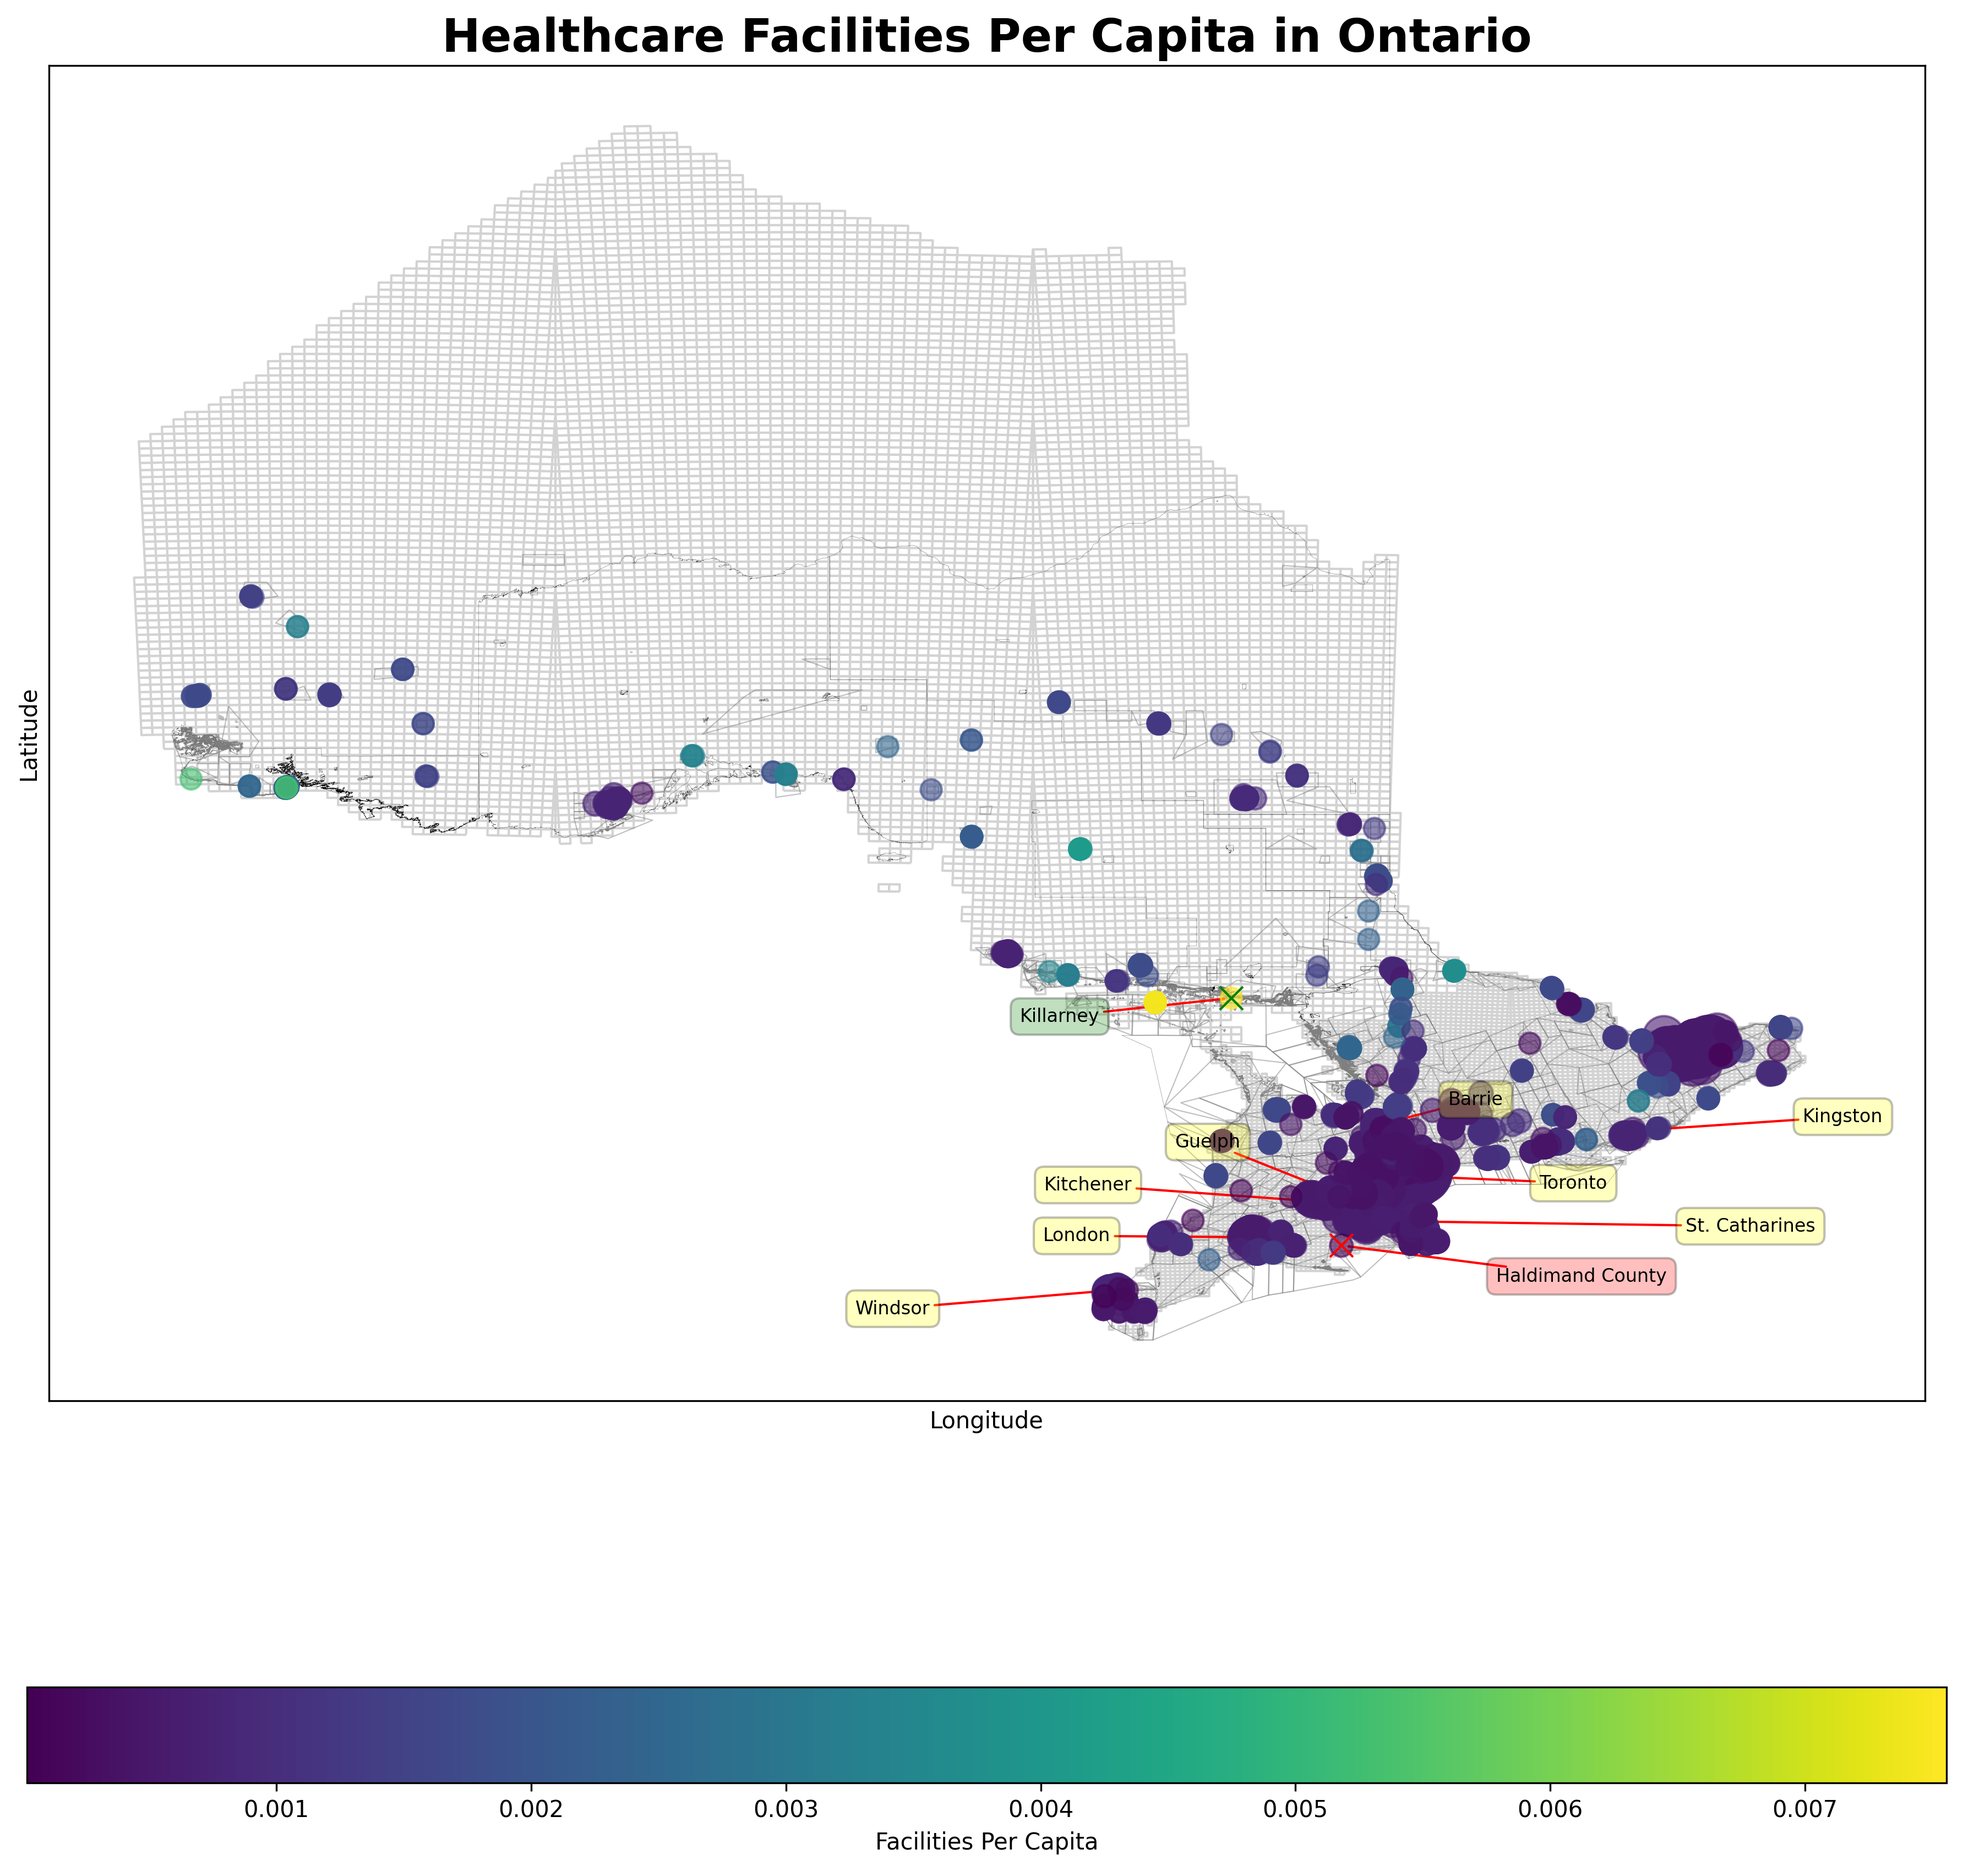
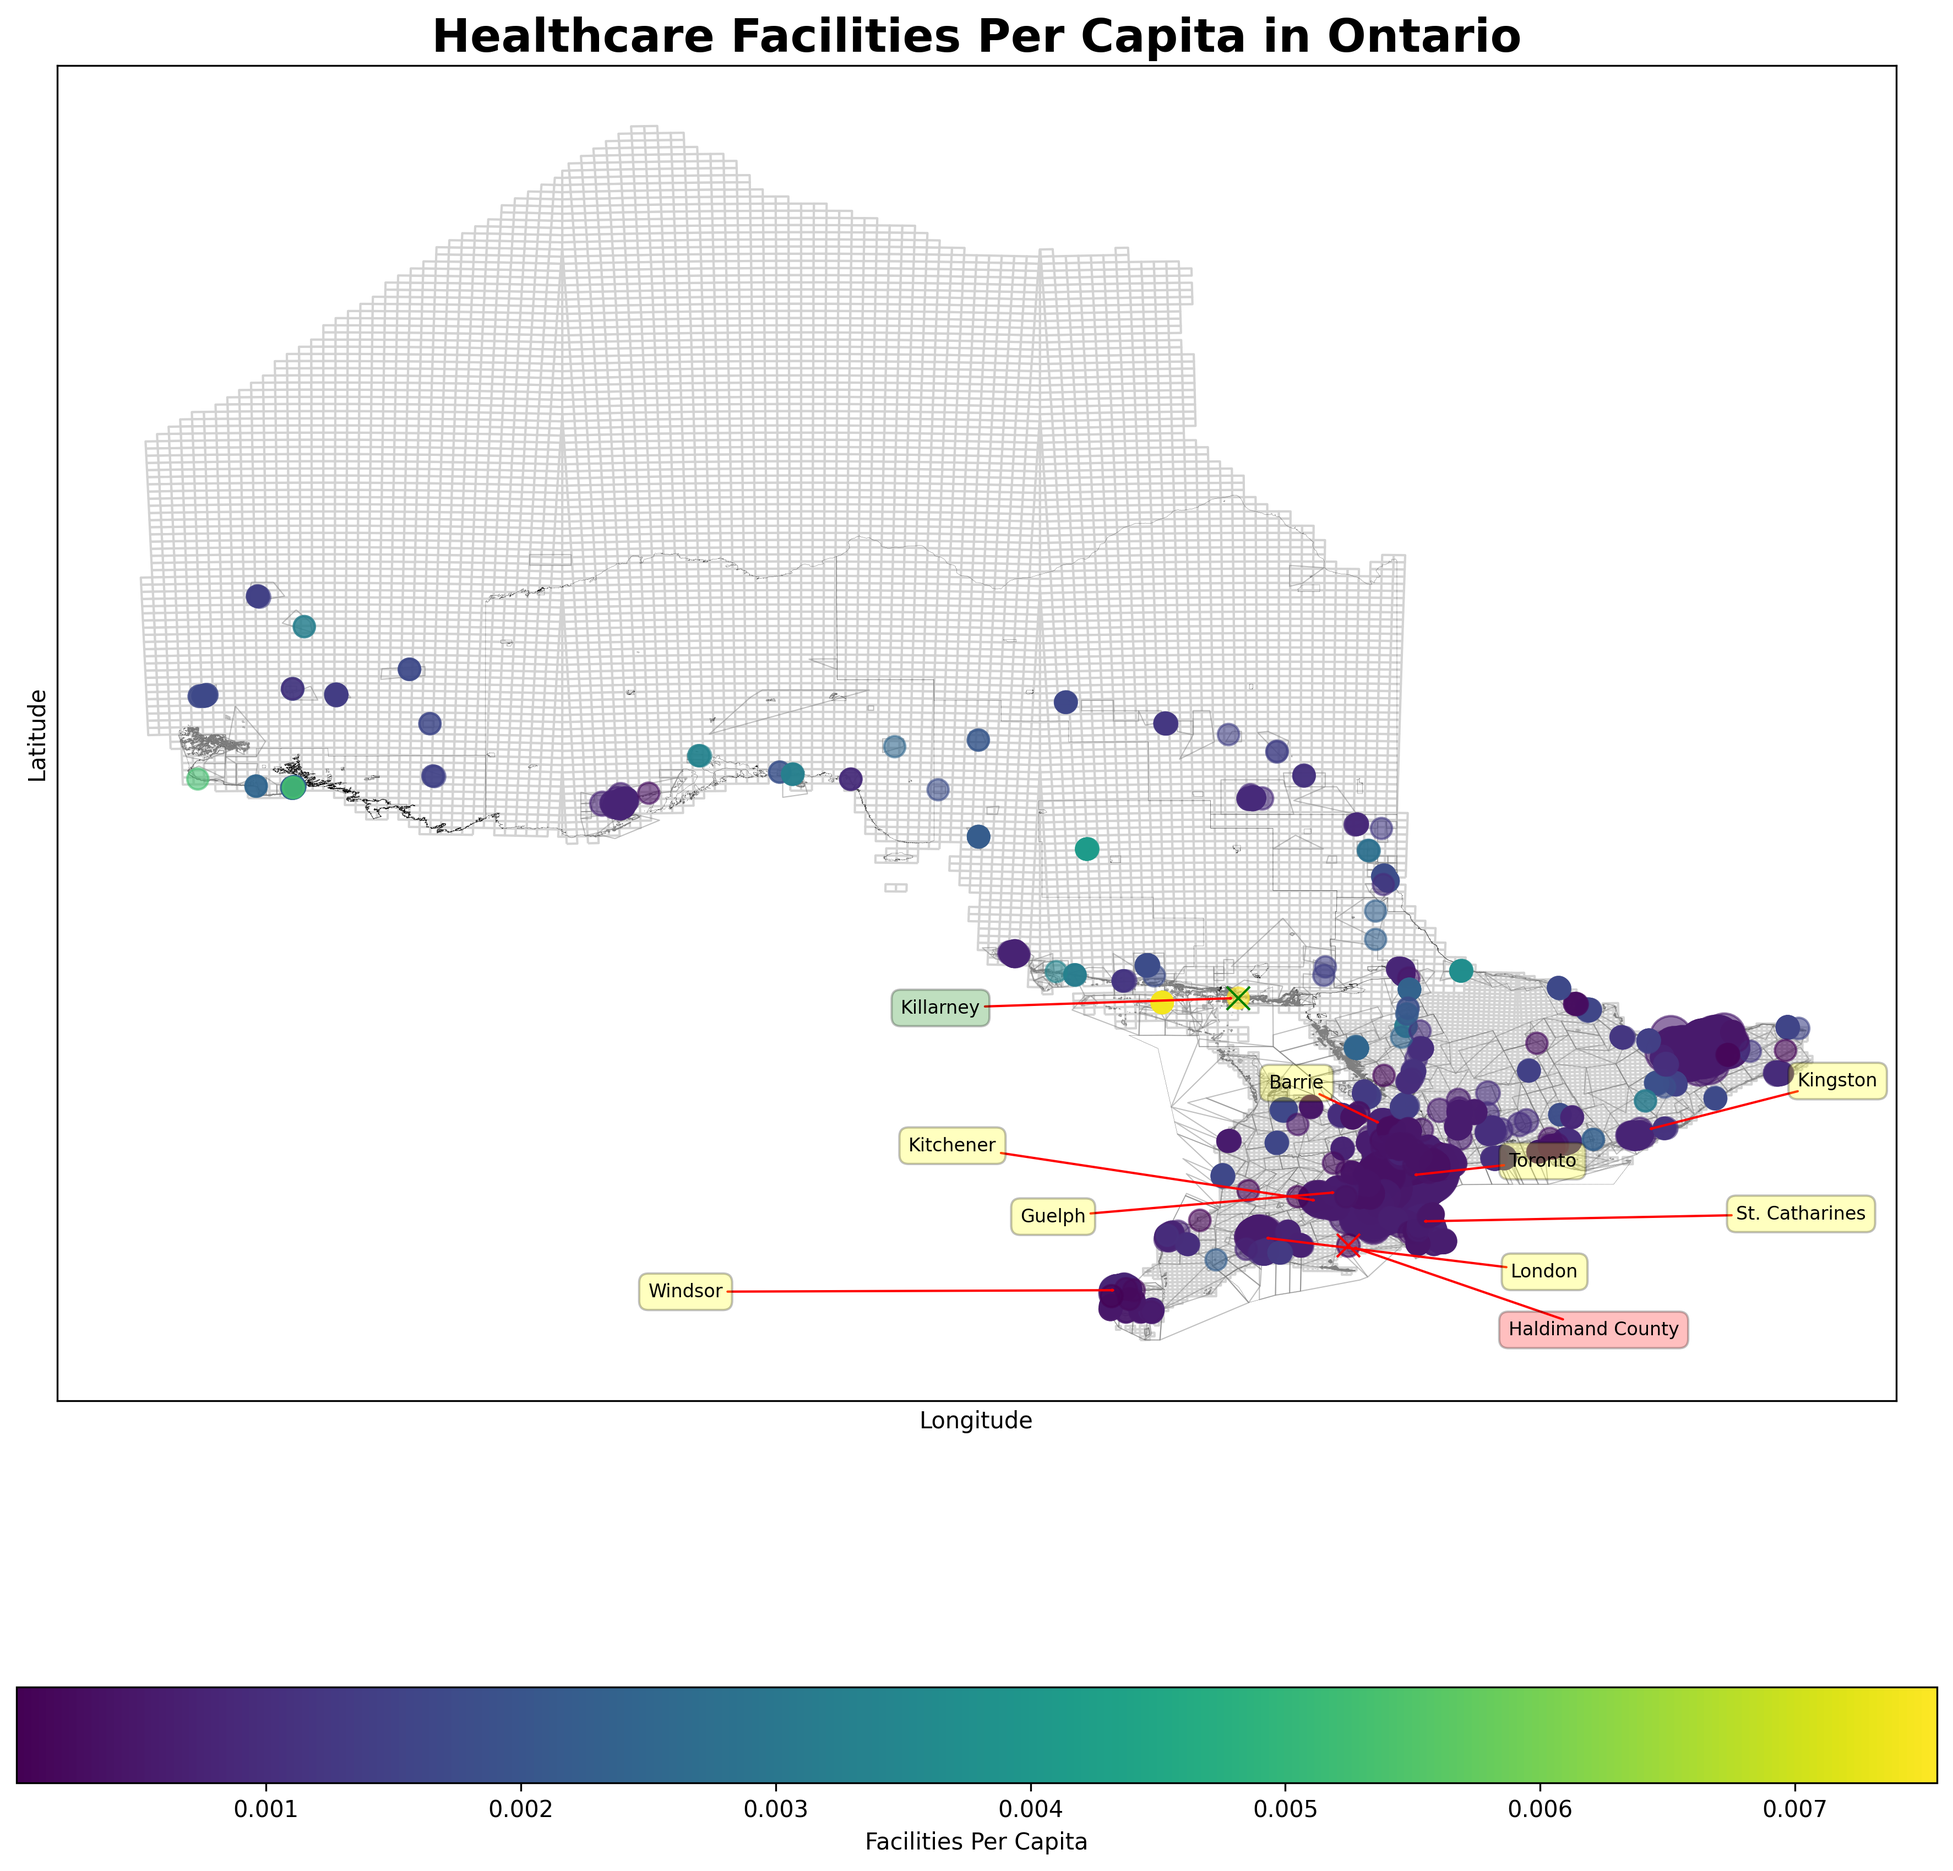
readme and requirements.txt updated

diff --git a/main.py b/main.py
@@ -163,13 +163,13 @@ def plot_ontario_map(hospital_gdf, base_map_path, upper_tier_path, lower_tier_pa
                              bbox=dict(facecolor='green', alpha=0.25, edgecolor='black', boxstyle='round,pad=0.5')))
     texts.append(ax.text(lowest_city.geometry.x, lowest_city.geometry.y, lowest_FPC, fontsize=8, ha='center', va='center',
                                 bbox=dict(facecolor='red', alpha=0.25, edgecolor='black', boxstyle='round,pad=0.5')))
-    # make the adjustment much more aggressive
-    adjust_text(texts, expand=(5, 3.25), # expand text bounding boxes by 1.2 fold in x direction and 2 fold in y direction
-                arrowprops=dict(arrowstyle='->', color='red') # ensure the labeling is clear by adding arrows
-                )
+
     hospital_gdf.plot(ax=ax, column='Facilities_Per_Capita', cmap='viridis', alpha=0.6,
                           markersize=hospital_gdf['marker_size'], legend=True,
                           legend_kwds={'label': "Facilities Per Capita", 'orientation': "horizontal"})
+    adjust_text(texts, expand=(5, 3.25), # expand text bounding boxes by 1.2 fold in x direction and 2 fold in y direction
+                arrowprops=dict(arrowstyle='->', color='red') # ensure the labeling is clear by adding arrows
+                )
     ax.set_title('Healthcare Facilities Per Capita in Ontario', fontsize=20, fontweight='bold')
     ax.set_xlabel('Longitude')
     ax.set_ylabel('Latitude')
